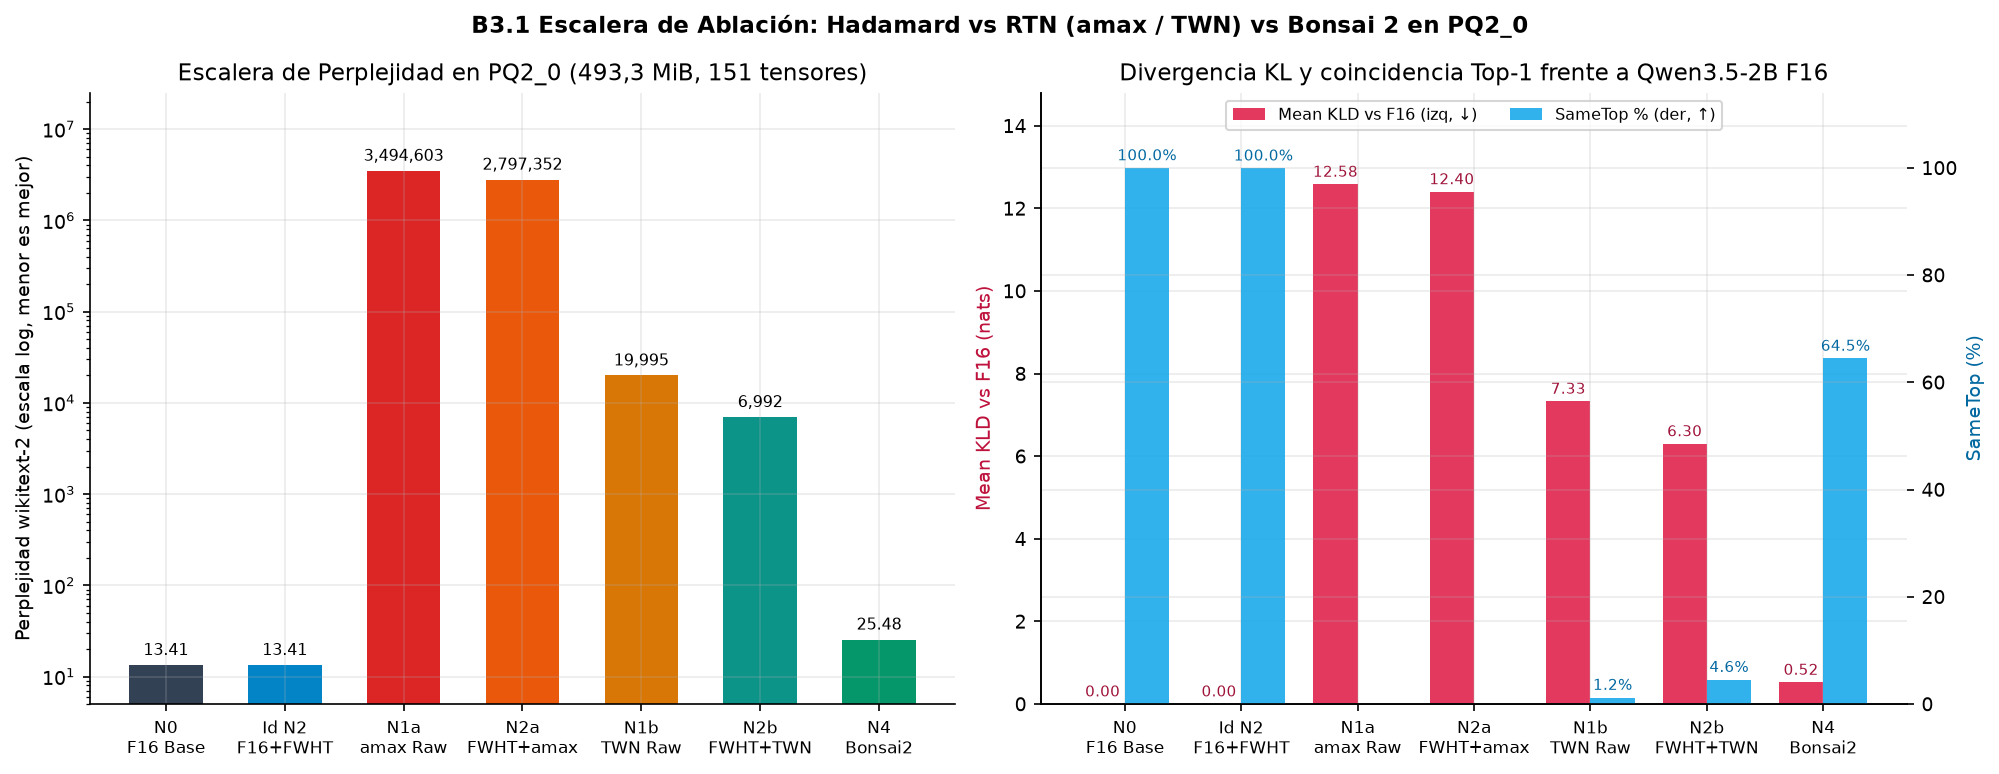
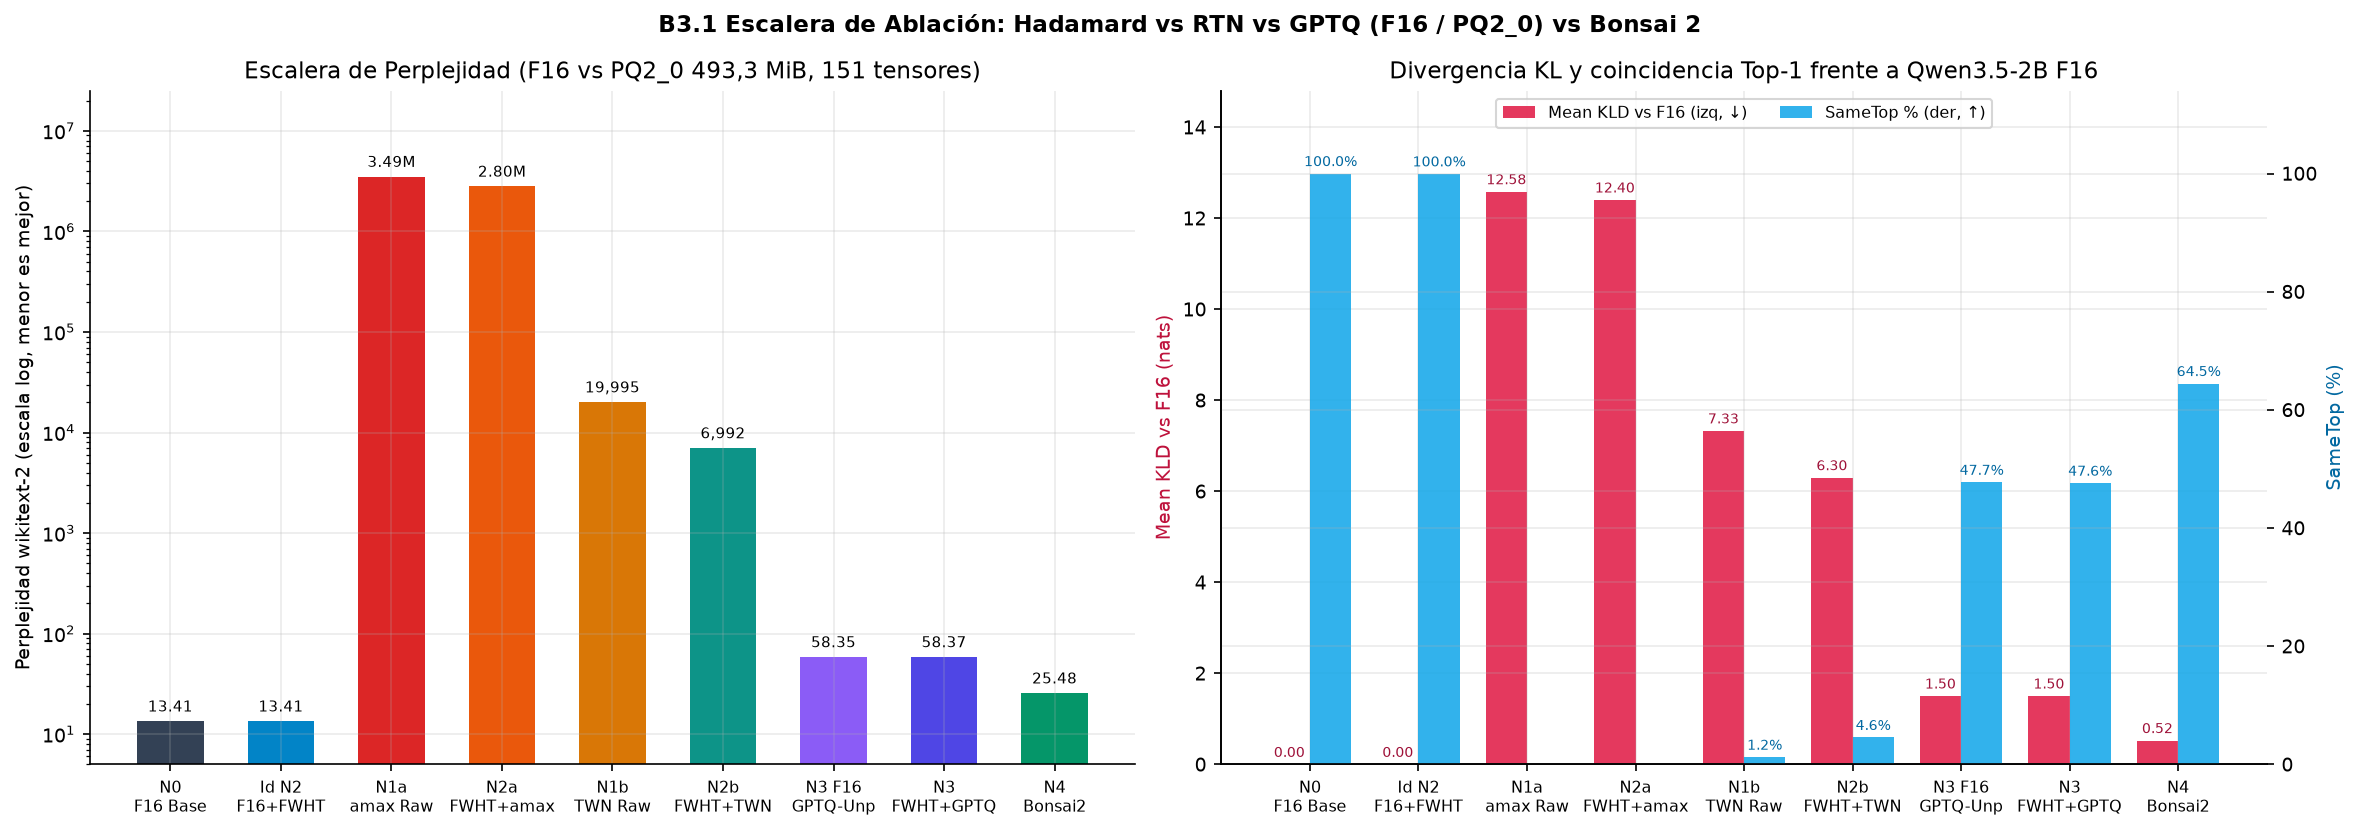
docs(b3.1b): publish N3 GPTQ results, F16 baseline and prompt duel

diff --git a/b3_1_hadamard_bonsai/README.md b/b3_1_hadamard_bonsai/README.md
@@ -119,9 +119,9 @@ Se verificó directamente sobre los binarios compilados de **`PrismML-Eng/llama.
 
 ---
 
-## 4. Escalera de ablación Hadamard: `N0 → N1 → N2 → N4` en `PQ2_0`
+## 4. Escalera de ablación Hadamard: `N0 → N1 → N2 → N3 → N4` en `PQ2_0`
 
-Para aislar cuánto aporta **únicamente** la transformación Hadamard frente al algoritmo de redondeo/optimización (y frente al entrenamiento QAT de Bonsai 2), se evaluó el mismo modelo base (`Qwen3.5-2B-F16.gguf`) empaquetado exactamente en el mismo formato **`PQ2_0` (`493,3 MiB`, `151 PQ2_0 + 169 F32`, `KV f16`)** mediante `make_bonsai_ablation.py` y `run_ablation_ladder.py`:
+Para aislar cuánto aporta **únicamente** la transformación Hadamard frente a la proyección RTN, a la compensación por Hessiano sin entrenamiento (**GPTQ**, `N3`) y al post-entrenamiento QAT de Bonsai 2 (`N4`), se evaluó el mismo modelo base (`Qwen3.5-2B-F16.gguf`) en `F16` sin empaquetar y empaquetado exactamente en **`PQ2_0` (`493,3 MiB`, `151 PQ2_0 + 169 F32`, `KV f16`)** mediante `make_bonsai_ablation.py`, `gptq_ternary.py` y `run_ablation_ladder.py`:
 
 ### 4.1 Test de Identidad en `F16` (verificación matemática antes de cuantizar)
 
@@ -133,9 +133,9 @@ Antes de cuantizar un solo peso, se verificó en `PrismML-Eng/llama.cpp` (`43f31
 | `F16 N1` (control identidad) | `v2`, `tied_output=true`, `block_size=1`, `sign_mode=identity` | 13,4057 | -0,000000 | 100,000 |
 | `F16 N2` (Hadamard doblada) | `v2`, `tied_output=true`, `block_size=512`, `sign_mode=explicit` (151 tensores rotados) | **13,4055** | **0,000000** | **99,951** |
 
-### 4.2 Resultados medidos `N1` vs `N2` en `PQ2_0` (`GTX 1050`, `ngl=99`)
+### 4.2 Resultados medidos `N1 → N2 → N3 → N4` (`GTX 1050`, `8 chunks × 512`)
 
-Al cuantizar con `llama-quantize PQ2_0 --output-tensor-type pq2_0 --token-embedding-type pq2_0 --tensor-type ssm_alpha=f32 --tensor-type ssm_beta=f32`, todos los escalones quedan empaquetados con los mismos `151 PQ2_0 + 169 F32` tensores (`493,3 MiB`):
+Al cuantizar con `llama-quantize PQ2_0 --output-tensor-type pq2_0 --token-embedding-type pq2_0 --tensor-type ssm_alpha=f32 --tensor-type ssm_beta=f32`, todos los escalones ternarios empaquetados comparten exactamente los mismos `151 PQ2_0 + 169 F32` tensores (`493,3 MiB`):
 
 | Nivel | Variante | Tamaño (MiB) | `pp512` (tok/s) | `tg128` (tok/s) | PPL (`8 chunks`) | Mean KLD | SameTop (%) | Lectura |
 | :--- | :--- | ---: | ---: | ---: | ---: | ---: | ---: | :--- |
@@ -143,17 +143,20 @@ Al cuantizar con `llama-quantize PQ2_0 --output-tensor-type pq2_0 --token-embedd
 | **N1a** | `N1` sin Hadamard (`d = amax` nativo `PQ2_0`) | 493,3 | 660,28 | 68,72 | 3.494.603 | 12,5837 | 0,00 | `d=amax` deja ~90 % de ceros; colapso total |
 | **N2a** | `N2` con Hadamard (`d = amax` nativo `PQ2_0`) | 493,3 | 779,23 | 69,50 | 2.797.352 | 12,4026 | 0,00 | Hadamard sola **no basta** con `d=amax` sin calibrar |
 | **N1b** | `N1` sin Hadamard + **TWN** MSE-óptimo (`g128`) | 493,3 | 652,98 | 67,88 | 19.995 | 7,3286 | 1,23 | Proyección óptima por bloque baja PPL `175×`, pero los *outliers* siguen dominando |
-| **N2b** | `N2` **con Hadamard** + **TWN** MSE-óptimo (`g128`) | 493,3 | **779,09** | **69,94** | **6.992** | **6,3001** | **4,56** | Hadamard aplana *outliers* (**2,86× menos PPL**, **3,7× SameTop** frente a `N1b`), insuficiente sin GPTQ/QAT |
-| **N3** | `Hadamard + GPTQ` (pendiente) | 493,3 | — | — | *pendiente* | *pendiente* | *pendiente* | Próximo paso: compensación por Hessiano sin QAT |
-| **N4** | `Ternary-Bonsai-2-2B PQ2_0` (PrismML) | 493,3 | 769,51 | **70,10** | **25,48** | **0,5238** | **64,46** | Receta Caltech + post-entrenamiento TPU (especialmente sobre `token_embd` tied 248k) |
+| **N2b** | `N2` **con Hadamard** + **TWN** MSE-óptimo (`g128`) | 493,3 | 779,09 | 69,94 | 6.992 | 6,3001 | 4,56 | Hadamard aplana *outliers* (**2,86× menos PPL**, **3,7× SameTop** frente a `N1b`) |
+| **N3 (F16)** | `Hadamard + GPTQ` en **F16 sin empaquetar** (`ngl=0`) | 3600,8 | 237,43 | 4,64 | **58,35** | **1,5029** | **47,75** | Baseline F16 con pesos GPTQ ternarios sin empaquetado de bits (`15×` más lento que GPU `PQ2_0`) |
+| **N3 (PQ2_0)** | `Hadamard + GPTQ` en **`PQ2_0`** (`ngl=99`) | 493,3 | **781,11** | **69,58** | **58,37** | **1,5032** | **47,60** | GPTQ recorta PPL **`120×`** frente a `N2b` (`6.992 → 58,37`) con pérdida casi nula al empaquetar (`+0,023` PPL) |
+| **N3 (`embd Q6_K`)** | Igual que `N3`, re-empaquetando `token_embd` GPTQ en `Q6_K` (`ngl=99`) | 762,4 | 776,04 | 50,22 | 58,44 | 1,5039 | 47,70 | Verifica que `PQ2_0` en el embedding ya ternarizado no pierde calidad y evita penalizar `tg128` |
+| **N4** | `Ternary-Bonsai-2-2B PQ2_0` (PrismML) | 493,3 | 769,51 | **70,10** | **25,48** | **0,5238** | **64,46** | Receta Caltech + post-entrenamiento TPU (cierra el hueco `58,37 → 25,48` y recupera el chat) |
 
 ![Escalera de ablación Hadamard en PQ2_0](../artifacts/b3_1_ablation_ladder.png)
 
-### Por qué `d = amax` colapsa incluso con Hadamard y qué demuestra `TWN`
+### 4.3 Qué demuestra `N3` (GPTQ puro) y el duelo determinista de 10 prompts
 
-1. En `PrismML-Eng/llama.cpp` (`ggml/src/ggml-quants.c`, `quantize_row_pq2_0_ref`), `PQ2_0` fija la escala de cada bloque de 128 pesos a **`d = amax`** y redondea `round(w / amax)`. Sobre pesos gaussianos o rotados sin re-entrenar (`amax ~ 3σ`), el umbral efectivo `0,5·amax` anula ~90 % de los pesos y sobreescala el resto, provocando colapso tanto en `N1a` (`3,49M`) como en `N2a` (`2,80M`).
-2. Al pre-proyectar cada bloque de 128 pesos a la retícula ternaria de **mínimo error cuadrático (TWN)** —eligiendo $k^* = \arg\max_k \frac{(\sum_{j \le k} |w_{(j)}|)^2}{k}$ y $d^* = \frac{1}{k^*}\sum_{j \le k^*}|w_{(j)}|$ en FP16 antes de empaquetar con `PQ2_0`—, `N1b` cae `175×` (`3,49M → 20k`) y **Hadamard (`N2b`) recorta otro `2,86×` adicional (`19.995 → 6.992`, `KLD 7,33 → 6,30`, `SameTop 1,23 % → 4,56 %`)**.
-3. Además, proteger `ssm_alpha.weight` y `ssm_beta.weight` en `F32` (las puertas recurrentes `16×2048` de Gated DeltaNet) iguala exactamente el reparto `151 PQ2_0 + 169 F32` de `Bonsai 2`. Aun así, con redondeo directo sin Hessiano (`N2b`) la PPL sigue en `6.992` (salida incoherente en `llama-cli`), demostrando que **Hadamard es condición necesaria pero no suficiente**: la recuperación de `6.992 → 25,48` exige optimización conjunta entre capas (GPTQ `N3` y/o QAT + destilación en TPU de `N4`).
+1. **Por qué `d = amax` colapsa y qué aporta `TWN` (`N1 → N2`):** en `PrismML-Eng/llama.cpp` (`ggml/src/ggml-quants.c`, `quantize_row_pq2_0_ref`), `PQ2_0` fija la escala de cada bloque de 128 pesos a **`d = amax`**, anulando ~90 % de los pesos y provocando colapso tanto en `N1a` (`3,49M`) como en `N2a` (`2,80M`). Al pre-proyectar cada bloque a la retícula ternaria de mínimo error cuadrático (**TWN**, $k^* = \arg\max_k \frac{(\sum_{j \le k} |w_{(j)}|)^2}{k}$, $d^* = \frac{1}{k^*}\sum_{j \le k^*}|w_{(j)}|$), `N1b` baja `175×` (`19.995`) y Hadamard (`N2b`) recorta otro `2,86×` (`6.992`).
+2. **El salto de GPTQ secuencial (`N2b → N3`):** `gptq_ternary.py` ejecuta la propagación capa por capa (18 capas híbridas *Gated DeltaNet* + 6 capas *GQA*) en `CUDA FP16/FP32` sobre la GTX 1050 (2 GB VRAM), acumulando $H = 2 X^T X + \lambda I$ sobre `64 chunks × 512 tokens` (`32.768 tokens` de WikiText-2 no solapados + código del repo) e invirtiendo por Cholesky por bloques de `128` con `damp = 0,01` y proyección dinámica TWN. Compensar el error entre pesos consecutivos desploma la PPL **`119,8×` (`6.992 → 58,37`)**, reduce `Mean KLD` de `6,30` a `1,50` y multiplica `SameTop` **`10,4×` (`4,56 % → 47,60 %`)**.
+3. **Empaquetado `PQ2_0` casi sin pérdida frente al baseline F16 (`N3 F16` vs `N3 PQ2_0`):** comparar `qwen3.5-2b-F16-N3-gptq.gguf` (`ngl=0`, `PPL = 58,3471`, `SameTop = 47,75 %`) contra `qwen3.5-2b-N3-gptq-PQ2_0.gguf` (`ngl=99`, `PPL = 58,3700`, `SameTop = 47,60 %`) demuestra que el empaquetado de 2 bits de `PQ2_0` introduce solo `+0,023` de PPL (`0,04 %`), mientras reduce el peso `7,3×` (`3600,8 → 493,3 MiB`) y acelera la decodificación **`15,0×` (`4,64 → 69,58 tok/s`)**. Proteger `ssm_alpha.weight` y `ssm_beta.weight` en `F32` iguala exactamente la topología `151 PQ2_0 + 169 F32` de `Bonsai 2`.
+4. **Duelo de 10 prompts (`--temp 0 --seed 42`, `artifacts/b3_1_prompt_duel.json`):** pese a rozar el `48 %` de coincidencia Top-1 token a token en WikiText-2, la ternarización PTQ sin ajuste de chat (`N3_gptq`, y también `N3_f16` en el *sanity prompt*) sigue rompiéndose en generación autorregresiva instruct: en 6 de 10 prompts (`code_py_lru`, `json_gpu_spec`, `json_api_err`, `logic_syllogism`, `tech_hadamard`, `tech_kv_cache`) emite `<|im_end|>` inmediato (`""`) tras `[Start thinking]`, y en los otros 4 entra en bucles repetitivos (`"1.\n1.\n..."`, `"10\n10\n..."`, eco del prompt SQL o `"1.5 hours, 1.5 hours..."`). Por contraste, `N0 (Q4_K_M)` y **`N4 (Bonsai 2 PQ2_0)`** completan `10/10` respuestas con razonamiento estructurado y código Python/SQL/C++ o JSON válido. Esto demuestra empíricamente qué parte aporta el **post-entrenamiento QAT en TPU** de PrismML (`58,37 → 25,48` en PPL y estabilidad completa en diálogo e instrucciones).
 
 ---
 
@@ -174,13 +177,15 @@ Al cuantizar con `llama-quantize PQ2_0 --output-tensor-type pq2_0 --token-embedd
 docker run --rm --gpus all -v "$PWD":/work ai-infra-study:llama-cuda12.6 \
   python3 /work/b3_1_hadamard_bonsai/kv_ablation.py --base-dir /work/b3_1_hadamard_bonsai --artifacts-dir /work/artifacts
 
-# 5. Escalera de ablacion N1/N2 en PQ2_0 (Test de Identidad F16 + amax + TWN) y regeneracion de graficas
+# 5. Escalera de ablacion N1/N2/N3 en PQ2_0 (Identidad F16 + amax + TWN + GPTQ + duelo de 10 prompts)
 python b3_1_hadamard_bonsai/make_bonsai_ablation.py --mode n1 -o b3_1_hadamard_bonsai/models/qwen3.5-2b-F16-N1.gguf
 python b3_1_hadamard_bonsai/make_bonsai_ablation.py --mode n2 -o b3_1_hadamard_bonsai/models/qwen3.5-2b-F16-N2.gguf
 python b3_1_hadamard_bonsai/make_bonsai_ablation.py --mode n1 --snap twn -o b3_1_hadamard_bonsai/models/qwen3.5-2b-F16-N1-twn.gguf
 python b3_1_hadamard_bonsai/make_bonsai_ablation.py --mode n2 --snap twn -o b3_1_hadamard_bonsai/models/qwen3.5-2b-F16-N2-twn.gguf
+python b3_1_hadamard_bonsai/gptq_ternary.py --calib-chunks 64 --damp 0.01 --embd-snap gptq_head \
+  -i b3_1_hadamard_bonsai/models/Qwen3.5-2B-F16.gguf -o b3_1_hadamard_bonsai/models/qwen3.5-2b-F16-N3-gptq.gguf
 docker run --rm --gpus all -v "$PWD":/work ai-infra-study:llama-cuda12.6 \
-  python3 -u /work/b3_1_hadamard_bonsai/run_ablation_ladder.py
+  python3 -u /work/b3_1_hadamard_bonsai/run_ablation_ladder.py --run-prompt-duel
 python b3_1_hadamard_bonsai/plot_results.py
 ```
 
@@ -199,4 +204,4 @@ MODEL=~/models/Ternary-Bonsai-2-2B-PTQ1_0.gguf BIN=~/build-prism/bin/llama-bench
 - **PrismML PRs `#53` y `#54` (`calibration-basis mismatch`):** guarda de compatibilidad entre `llama-kv-mean-center` (calibrado sin rotación) y `LLAMA_ATTN_ROT_DISABLE=1` en inferencia.
 - **`ggml-org/llama.cpp` (`master`, commit `ca123ba`):** soporte oficial `prism.hadamard` + `Q2_0`, rotación Hadamard KV ([PR #21038](https://github.com/ggml-org/llama.cpp/pull/21038)) y reporte de regresiones tempranas en desplazamiento de contexto híbrido ([Issue #21383](https://github.com/ggml-org/llama.cpp/issues/21383)).
 - **Modelos evaluados en Hugging Face:** [`prism-ml/Ternary-Bonsai-2-2B-gguf`](https://huggingface.co/prism-ml/Ternary-Bonsai-2-2B-gguf) (`Q2_0`, `PQ2_0`, `PTQ1_0`), [`titan0115/Qwen3.5-2B`](https://huggingface.co/titan0115/Qwen3.5-2B) (`F16`, `Q4_K_M`, `TQ1_0`) y [`unsloth/Qwen3.5-2B-GGUF`](https://huggingface.co/unsloth/Qwen3.5-2B-GGUF) (`UD-IQ2_XXS`).
-- **Artefactos reales generados en este repositorio:** [`artifacts/b3_1_summary.md`](../artifacts/b3_1_summary.md), [`artifacts/b3_1_results.json`](../artifacts/b3_1_results.json), [`artifacts/b3_1_results.csv`](../artifacts/b3_1_results.csv), [`artifacts/b3_1_kv_ablation.json`](../artifacts/b3_1_kv_ablation.json) y [`artifacts/b3_1_ablation_ladder.json`](../artifacts/b3_1_ablation_ladder.json).
+- **Artefactos reales generados en este repositorio:** [`artifacts/b3_1_summary.md`](../artifacts/b3_1_summary.md), [`artifacts/b3_1_results.json`](../artifacts/b3_1_results.json), [`artifacts/b3_1_results.csv`](../artifacts/b3_1_results.csv), [`artifacts/b3_1_kv_ablation.json`](../artifacts/b3_1_kv_ablation.json), [`artifacts/b3_1_ablation_ladder.json`](../artifacts/b3_1_ablation_ladder.json) y [`artifacts/b3_1_prompt_duel.json`](../artifacts/b3_1_prompt_duel.json).

diff --git a/INFORME_RESULTADOS.md b/INFORME_RESULTADOS.md
@@ -162,12 +162,15 @@ Resultados medidos en contenedor `ai-infra-study:llama-cuda12.6` (GTX 1050 2 GB 
 
 ![Ablación KV-Cache: Calidad vs Profundidad](artifacts/b3_1_kv_ablation.png)
 
-### Escalera de ablación Hadamard en `PQ2_0` (`N0 → N1 → N2 → N4`, `493,3 MiB`)
+### Escalera de ablación Hadamard en `PQ2_0` (`N0 → N1 → N2 → N3 → N4`, `493,3 MiB`)
 
 - **Test de Identidad F16 (`ngl=0`):** `F16 N1` (`block_size=1, identity`) obtiene `PPL = 13,4057` (`SameTop = 100,0 %`) y `F16 N2` (`block_size=512`, 151 tensores doblados incluyendo `token_embd` *tied* y `ssm_out`) obtiene `PPL = 13,4055` (`KLD = 0,0000`, `SameTop = 99,951 %`).
-- **En `PQ2_0` (`ngl=99`, `151 PQ2_0 + 169 F32`):**
+- **RTN (`amax` / `TWN`) en `PQ2_0` (`ngl=99`, `151 PQ2_0 + 169 F32`):**
   - Con el redondeo nativo `d = amax` de `quantize_row_pq2_0_ref`, colapsan tanto `N1a` sin rotación (`PPL = 3,49M`, `KLD = 12,58`) como `N2a` con Hadamard (`PPL = 2,80M`, `KLD = 12,40`).
-  - Pre-proyectando cada bloque de 128 pesos a la retícula ternaria MSE-óptima (**TWN**), `N1b` baja `175×` hasta `PPL = 19.995` (`KLD = 7,33`, `SameTop = 1,23 %`) y **Hadamard (`N2b`) reduce otra `2,86×` hasta `PPL = 6.992` (`KLD = 6,30`, `SameTop = 4,56 %`, `tg128 = 69,94 tok/s`)**, confirmando que Hadamard aplana *outliers* pero no sustituye a GPTQ (`N3`, pendiente) ni al QAT de `Bonsai 2` (`N4`, `PPL = 25,48`, `KLD = 0,52`).
+  - Pre-proyectando cada bloque de 128 pesos a la retícula ternaria MSE-óptima (**TWN**), `N1b` baja `175×` hasta `PPL = 19.995` (`KLD = 7,33`, `SameTop = 1,23 %`) y Hadamard (`N2b`) reduce otras `2,86×` hasta `PPL = 6.992` (`KLD = 6,30`, `SameTop = 4,56 %`, `tg128 = 69,94 tok/s`).
+- **Hadamard + GPTQ (`N3` F16 sin empaquetar vs `PQ2_0`) y duelo de prompts:**
+  - Con **GPTQ secuencial por Cholesky** (`64 × 512 tokens`, `damp = 0,01`) sobre el híbrido 18 *Gated DeltaNet* + 6 *GQA* (`gptq_ternary.py`), la PPL cae **`119,8×`** frente a `N2b`: **`N3 F16` sin empaquetar (`ngl=0`) obtiene `PPL = 58,35` (`KLD = 1,5029`, `SameTop = 47,75 %`, `4,64 tok/s`, `3600,8 MiB`)** y **`N3 PQ2_0` (`ngl=99`) obtiene `PPL = 58,37` (`KLD = 1,5032`, `SameTop = 47,60 %`, `69,58 tok/s`, `493,3 MiB`)**, confirmando que el empaquetado de 2 bits de `PQ2_0` añade solo `+0,023` PPL siendo `7,3×` más ligero y `15,0×` más rápido al decodificar.
+  - En el **duelo determinista de 10 prompts (`--temp 0`, [`artifacts/b3_1_prompt_duel.json`](artifacts/b3_1_prompt_duel.json))**, `N0 (Q4_K_M)` y **`N4 (Bonsai 2, PPL = 25,48, KLD = 0,52, SameTop = 64,46 %)`** generan respuestas estructuradas válidas en `10/10` prompts, mientras que `N3_gptq` colapsa en generación chat (`6/10` `<|im_end|>` vacíos y `4/10` bucles repetitivos), demostrando empíricamente la necesidad del post-entrenamiento **QAT en TPU** para estabilidad instruct a 1,58 bits.
 
 ![Escalera de ablación Hadamard en PQ2_0](artifacts/b3_1_ablation_ladder.png)
 
